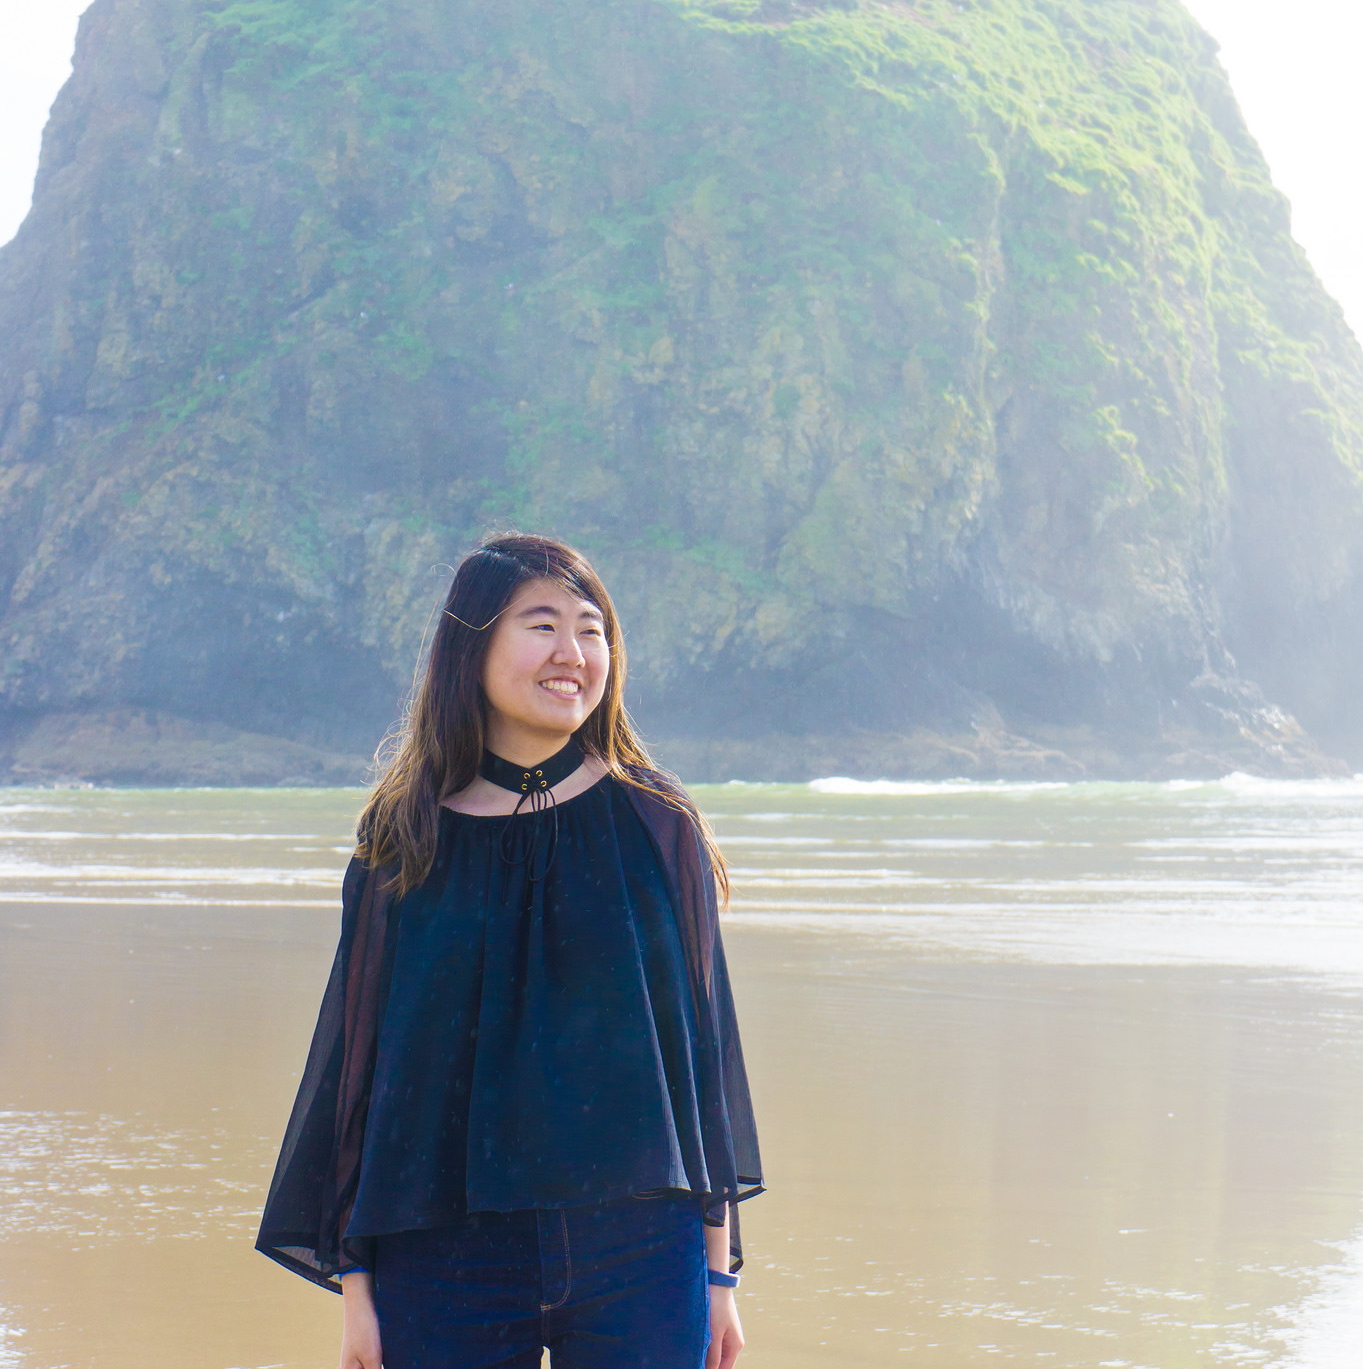
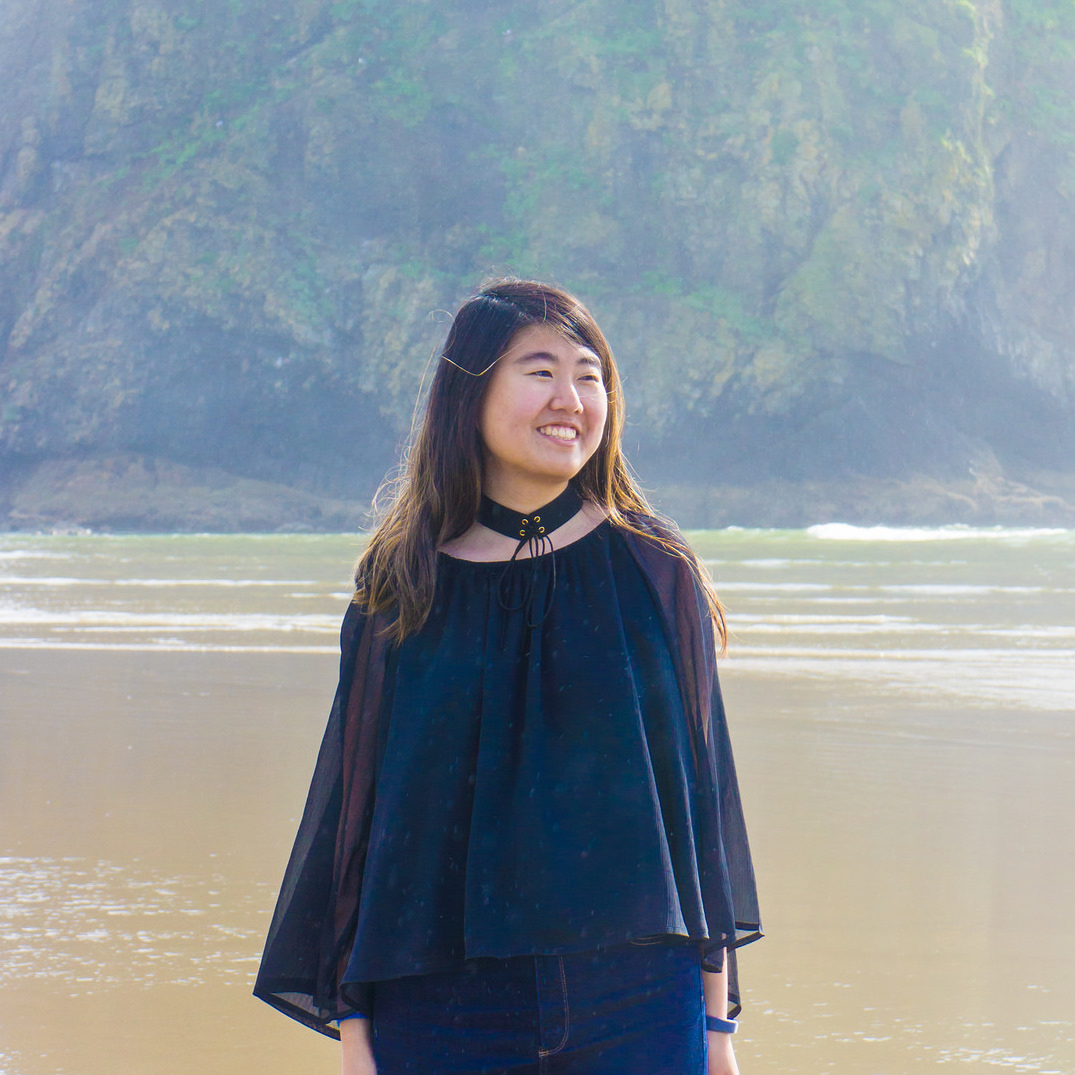
updated front page and resume mobile

diff --git a/index.html b/index.html
@@ -20,6 +20,22 @@
 	      .aboutme{
 	      	width:500px;
 	      }
+	      .tag{
+	      	border-width: 1px;
+	      	border-style: solid;
+	      	border-color:grey;
+	      	border-radius: 5px;
+	      	padding: 2px;
+
+	      }
+	      img.me{
+	      	width: 95%;
+	      	height: auto;
+	      	max-width: 400px;
+	      }
+	      .me{
+	      	object-fit:cover;
+	      }
 	      @media all and (max-width: 900px) {
 		      h1{
 		      	line-height: normal;
@@ -41,13 +57,13 @@
 		<a href="art.html">Art</a> 
 		<a href="code.html">Products</a>  
 		<a href="resume.html">Resume</a>  
-		<a href="contact.html">Contact</a>
+		<!-- <a href="contact.html">Contact</a> -->
 		<br>
 	</header>
 
 	<body>
 	  	<div class="container">
-	      	<img class="me" src="img/Annie.jpg"><br><br>
+	      	<img class="me" width="200" height="200" style="border-radius:50%" src="img/Annie.jpg"><br>
 			<h1>ANNIE CHEN</h1> 
 			<h2>Designing digital experiences for human needs.</h2>
 			<div class="subtitles">
@@ -57,18 +73,28 @@
 			<br>
 			<center>
 			<div class="aboutme">
-			<p>Persistently captivated by the intersection of art and technology, Annie holds a passion for creating intuitive, responsive <nobr>user-interfaces</nobr>. Coming from a background of Computer Science, Human-Computer Interaction, and Writing, she is <nobr>well-versed</nobr> in leading <nobr>thought-provoking</nobr> analysis on <nobr>User Experience</nobr> and <nobr>Interface Development</nobr>. Annie is experienced in leading teams and organizations of various sizes with a knack for kind, explicit clarity. </p>
+	<!-- 		<p>Persistently captivated by the intersection of art and technology, Annie holds a passion for creating intuitive, responsive <nobr>user-interfaces</nobr>. Coming from a background of Computer Science, Human-Computer Interaction, and Writing, she is <nobr>well-versed</nobr> in leading <nobr>thought-provoking</nobr> analysis on <nobr>User Experience</nobr> and <nobr>Interface Development</nobr>. Annie is experienced in leading teams and organizations of various sizes with a knack for kind, explicit clarity. </p> -->
 			</div><br>
-			<div class="subtitles">
-				<i class="fa fa-briefcase fa-1x"></i> <i>NASA JPL</i> &nbsp;
-				<i class="fa fa-graduation-cap fa-1x"></i><i>UCSD</i>
+		<!-- 	<div class="subtitles">
+				<span class="tag">&nbsp;<i class="fa fa-briefcase fa-1x"></i> NASA JPL </span>&nbsp;
+				<span class="tag">&nbsp;<i class="fa fa-graduation-cap fa-1x"></i> UCSD </span>&nbsp;
 			</div>
+			<br><br> -->
+			<a href="https://www.linkedin.com/in/anniechn" target="_blank" class="fa fa-linkedin-square fa-2x"></a> 
+			&nbsp;
+			<a href="https://dribbble.com/anniechn" target="_blank" class="fa fa-dribbble fa-2x"></a> 
+			&nbsp;
+			<a href="mailto:anniechen310@gmail.com" target="_blank" ><i class="fa fa-envelope-square fa-2x"></i></a>
+			&nbsp;
+			<a href="https://twitter.com/anniechn" target="_blank" class="fa fa-twitter fa-2x"></a>
+			&nbsp;
+			<a href="https://medium.com/@anniechn" target="_blank" class="fa fa-medium fa-2x"></a> 
 		</center>
 		</div>
 	</body>
 
 	<footer>
-		 <i class="fa fa-copyright"></i> Annie Chen, 2018.
+    	<i class="fa fa-copyright"></i> 2018, ANNIE CHEN<br>
 	</footer>
 
 </html>

diff --git a/resume.html b/resume.html
@@ -59,6 +59,10 @@
         vertical-align: middle;
         line-height: normal;
       }
+      .educationDetail{
+        font-size: 15px;
+        color:grey;
+      }
       @media all and (max-width: 1121px) {
         hr{
           border-color:grey !important;
@@ -69,6 +73,7 @@
         }
         .mobile{
           display:inline-block !important;
+          padding: 9px;
         }
         .title{
           padding-bottom: 8px;
@@ -83,6 +88,7 @@
         }
         .flex-item{
           padding: 2px;
+          text-align: left;
         }
         .resume{
           font-size: 6vw;
@@ -94,6 +100,11 @@
           font-size: 15px !important;
           padding:15px;
         }
+        .educationDetail{
+          font-size: 3vw;
+          color:white;
+          font-weight:normal;
+        }
       }
     </style>
   </head>
@@ -103,13 +114,35 @@
     <a href="art.html">Art</a>
     <a href="code.html">Products</a>
     <span style="color:yellow; text-transform: uppercase; padding: 10px">Resume</span> 
-    <a href="contact.html">Contact</a>
+    <!-- <a href="contact.html">Contact</a> -->
   </header>
 
   <body>
     <div class="resume_padding">
       <center><a class="resume" href="Annie_Chen_Resume.pdf" target="_blank">Download Resume</a></center>
     </div>
+
+    <div class="title">Education</div>
+    <div class="flex-container web">
+      <table style="width:100%">
+          <tr>
+            <td align="left">B.S. Computer Science (Class of 2017)<br>
+              <span class="educationDetail">Area Studies: Cognitive Science (Human-Computer Interaction), Literature (Writing)</span>
+            </td>
+            <td align="right"><i>University of California, San Diego </i></td>
+          </tr>
+      </table>
+    </div>
+    <div class="mobile">
+      <div class="flex-container">
+        <div class="flex-item">
+          <div class="words"><h2>B.S. Computer Science (Class of 2017)<br>
+              <span class="educationDetail">Area Studies: Cognitive Science (Human-Computer Interaction), Literature (Writing)</span></h2>
+          <h3>University of California, San Diego</h3></div>
+        </div>
+    </div>
+  </div>
+    <br><br>
 
     <div class="title">Selected Experience </div>
     <div class="flex-container web">
@@ -141,7 +174,6 @@
       </table>
     </div>
     <div class="mobile">
-      <br>
       <div class="flex-container">
         <div class="flex-item">
           <div class="words"><h2><nobr>UI & UX Designer</nobr>, <nobr>Front-End Developer</nobr></h2>
@@ -208,7 +240,6 @@
       </table>
     </div>
     <div class="mobile">
-      <br>
       <div class="flex-container">
         <div class="flex-item">
           <div class="words"><h2>Leadership Board, <nobr>Co-Founder</nobr></h2>
@@ -250,6 +281,6 @@
   </body>
 
   <footer>
-    <i class="fa fa-copyright"></i> Annie Chen, 2018.
+    <i class="fa fa-copyright"></i> 2018, ANNIE CHEN<br>
   </footer>
 </html>

diff --git a/contact.html b/contact.html
@@ -28,7 +28,7 @@
 			&nbsp;&nbsp;
 			<a href="https://dribbble.com/anniechn" target="_blank" class="fa fa-dribbble fa-2x"></a> 
 			&nbsp;&nbsp;
-			<a href="mailto:anniechen310@gmail.com?subject=Contacted%20from%20www.anniechen.design&amp;body=Name%3A%0A%0AInquiry%3A" target="_blank" ><i class="fa fa-envelope-square fa-2x"></i></a>
+			<a href="mailto:anniechen310@gmail.com" target="_blank" ><i class="fa fa-envelope-square fa-2x"></i></a>
 			&nbsp;&nbsp;
 			<a href="https://twitter.com/anniechn" target="_blank" class="fa fa-twitter fa-2x"></a>
 			&nbsp;&nbsp;
@@ -47,7 +47,7 @@
 	</body>
 	
 	<footer>
-		 <i class="fa fa-copyright"></i> Annie Chen, 2018.
+    	<i class="fa fa-copyright"></i> 2018, ANNIE CHEN<br>
 	</footer>
 
 </html>

diff --git a/photography.html b/photography.html
@@ -17,7 +17,7 @@
     <a style="color:yellow;" href="art.html">Art</a>  
     <a href="code.html">Products</a>  
     <a href="resume.html">Resume</a>  
-    <a href="contact.html">Contact</a>
+    <!-- <a href="contact.html">Contact</a> -->
     <br><br>
     <div style="color:grey">
       <span style="color:orange; text-transform: uppercase; padding: 10px">Photography</span>  /
@@ -102,6 +102,6 @@
 	</body>
 
   <footer>
-    <i class="fa fa-copyright"></i> Annie Chen, 2018.
+    <i class="fa fa-copyright"></i> 2018, ANNIE CHEN<br>
   </footer>
 </html>

diff --git a/art.html b/art.html
@@ -41,7 +41,7 @@
 		<span style="color:yellow; text-transform: uppercase; padding: 10px">Art</span>
 		<a href="code.html">Products</a>  
 		<a href="resume.html">Resume</a>  
-		<a href="contact.html">Contact</a>
+		<!-- <a href="contact.html">Contact</a> -->
 	    <br><br>
     	<div style="color:grey">
 		    <a class="artSubtitle" href="photography.html">Photography</a> /
@@ -72,7 +72,7 @@
 	</body>
 	<br>
 	<footer>
-		 <i class="fa fa-copyright"></i> Annie Chen, 2018.
+    	<i class="fa fa-copyright"></i> 2018, ANNIE CHEN<br>
 	</footer>
 
 </html>

diff --git a/graphic_design.html b/graphic_design.html
@@ -15,7 +15,7 @@
     <a style="color:yellow;" href="art.html">Art</a>  
     <a href="code.html">Products</a>  
     <a href="resume.html">Resume</a>  
-    <a href="contact.html">Contact</a>
+    <!-- <a href="contact.html">Contact</a> -->
     <br><br>
     <div style="color:grey">
       <a class="artSubtitle" href="photography.html">Photography</a> /
@@ -70,6 +70,6 @@
     </script>
   </body>
   <footer>
-    <i class="fa fa-copyright"></i> Annie Chen, 2018.
+    <i class="fa fa-copyright"></i> 2018, ANNIE CHEN<br>
   </footer>
 </html>

diff --git a/code_art.html b/code_art.html
@@ -29,7 +29,7 @@
     <a style="color:yellow;" href="art.html">Art</a>  
     <a href="code.html">Products</a>  
     <a href="resume.html">Resume</a>  
-    <a href="contact.html">Contact</a>
+    <!-- <a href="contact.html">Contact</a> -->
     <br><br>
     <div style="color:grey">
       <a class="artSubtitle" href="photography.html">Photography</a> / 
@@ -58,6 +58,6 @@
   </body>
 
   <footer>
-    <i class="fa fa-copyright"></i> Annie Chen, 2018.
+    <i class="fa fa-copyright"></i> 2018, ANNIE CHEN<br>
   </footer>
 </html>

diff --git a/illustrations.html b/illustrations.html
@@ -15,7 +15,7 @@
     <a style="color:yellow;" href="art.html">Art</a>  
     <a href="code.html">Products</a>  
     <a href="resume.html">Resume</a>  
-    <a href="contact.html">Contact</a>
+    <!-- <a href="contact.html">Contact</a> -->
     <br><br>
     <div style="color:grey">
       <a class="artSubtitle" href="photography.html">Photography</a> /
@@ -83,6 +83,6 @@
   </body>
 
   <footer>
-    <i class="fa fa-copyright"></i> Annie Chen, 2018.
+    <i class="fa fa-copyright"></i> 2018, ANNIE CHEN<br>
   </footer>
 </html>

diff --git a/code.html b/code.html
@@ -27,7 +27,7 @@
     <a href="art.html">Art</a> 
     <span style="color:yellow; text-transform: uppercase; padding: 10px">Products</span>   
     <a href="resume.html">Resume</a>  
-    <a href="contact.html">Contact</a>
+    <!-- <a href="contact.html">Contact</a> -->
   </header>
 
   <body>
@@ -46,6 +46,6 @@
   </body>
 
   <footer>
-    <i class="fa fa-copyright"></i> Annie Chen, 2018.
+    <i class="fa fa-copyright"></i> 2018, ANNIE CHEN<br>
   </footer>
 </html>
